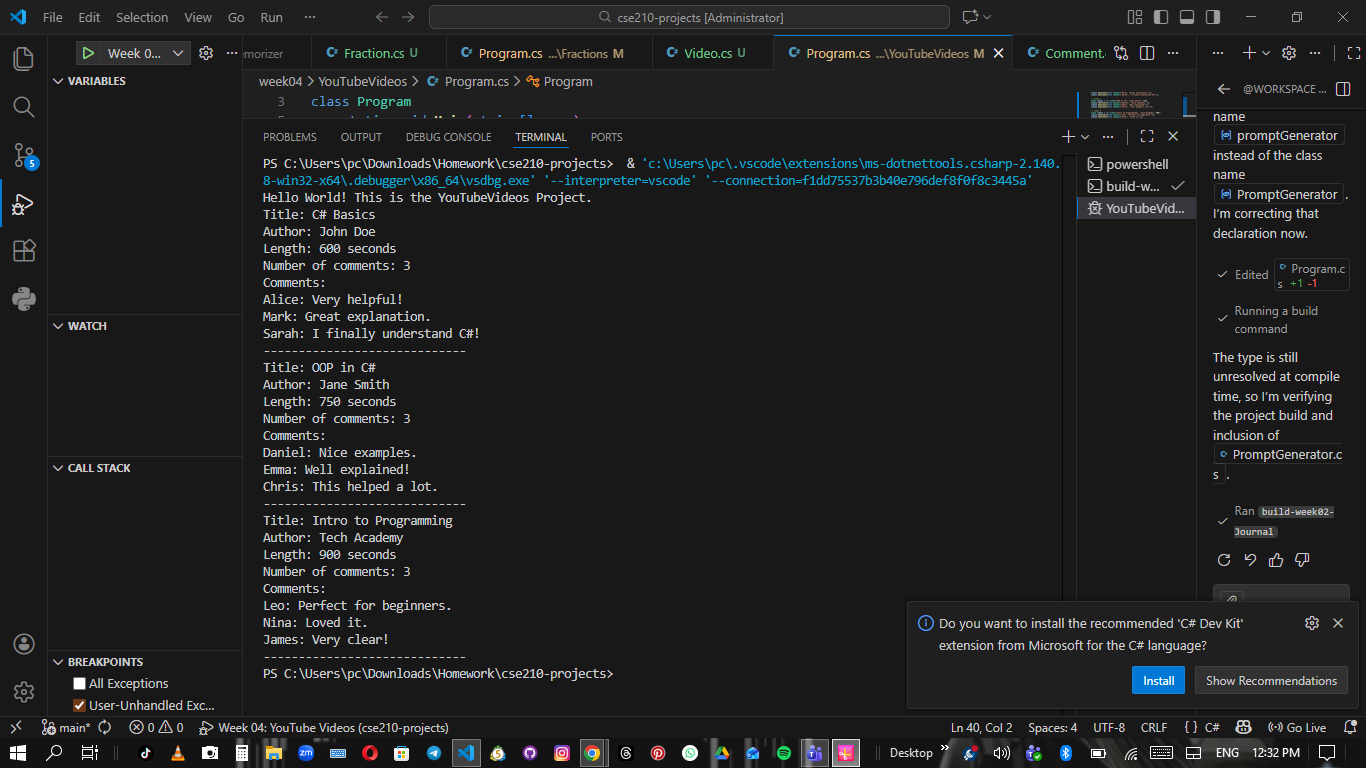
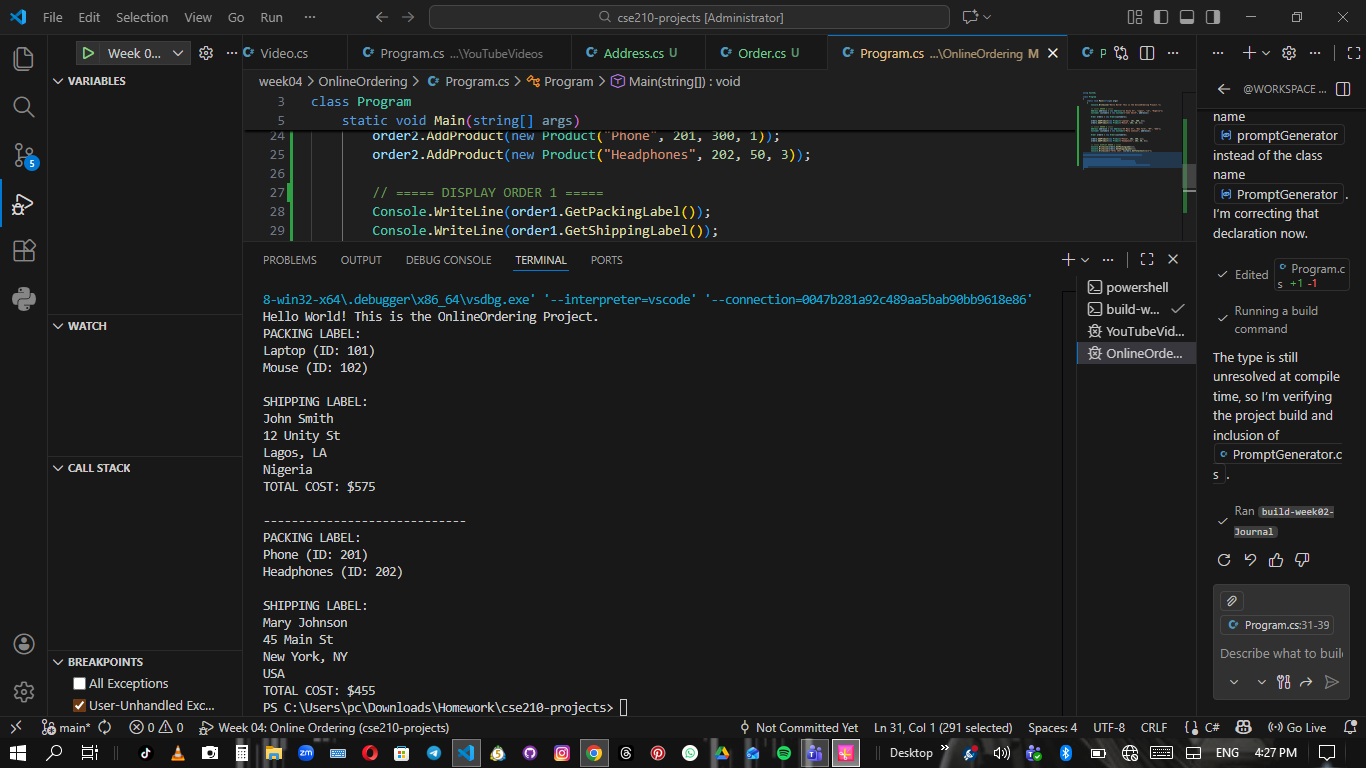
onlineshopping

diff --git a/week04/OnlineOrdering/Program.cs b/week04/OnlineOrdering/Program.cs
@@ -5,5 +5,35 @@ class Program
     static void Main(string[] args)
     {
         Console.WriteLine("Hello World! This is the OnlineOrdering Project.");
+
+        // ===== ORDER 1 =====
+        Address address1 = new Address("12 Unity St", "Lagos", "LA", "Nigeria");
+        Customer customer1 = new Customer("John Smith", address1);
+
+        Order order1 = new Order(customer1);
+
+        order1.AddProduct(new Product("Laptop", 101, 500, 1));
+        order1.AddProduct(new Product("Mouse", 102, 20, 2));
+
+        // ===== ORDER 2 =====
+        Address address2 = new Address("45 Main St", "New York", "NY", "USA");
+        Customer customer2 = new Customer("Mary Johnson", address2);
+
+        Order order2 = new Order(customer2);
+
+        order2.AddProduct(new Product("Phone", 201, 300, 1));
+        order2.AddProduct(new Product("Headphones", 202, 50, 3));
+
+        // ===== DISPLAY ORDER 1 =====
+        Console.WriteLine(order1.GetPackingLabel());
+        Console.WriteLine(order1.GetShippingLabel());
+        Console.WriteLine($"TOTAL COST: ${order1.GetTotalCost()}\n");
+
+        Console.WriteLine("-----------------------------");
+
+        // ===== DISPLAY ORDER 2 =====
+        Console.WriteLine(order2.GetPackingLabel());
+        Console.WriteLine(order2.GetShippingLabel());
+        Console.WriteLine($"TOTAL COST: ${order2.GetTotalCost()}");
     }
 }

diff --git a/week04/OnlineOrdering/Order.cs b/week04/OnlineOrdering/Order.cs
@@ -1,0 +1,57 @@
+using System;
+using System.Collections.Generic;
+
+public class Order
+{
+    private List<Product> _products;
+    private Customer _customer;
+
+    public Order(Customer customer)
+    {
+        _customer = customer;
+        _products = new List<Product>();
+    }
+
+    public void AddProduct(Product product)
+    {
+        _products.Add(product);
+    }
+
+    public double GetTotalCost()
+    {
+        double total = 0;
+
+        foreach (Product product in _products)
+        {
+            total += product.GetTotalCost();
+        }
+
+        if (_customer.LivesInUSA())
+        {
+            total += 5;
+        }
+        else
+        {
+            total += 35;
+        }
+
+        return total;
+    }
+
+    public string GetPackingLabel()
+    {
+        string label = "PACKING LABEL:\n";
+
+        foreach (Product product in _products)
+        {
+            label += product.GetPackingLabel() + "\n";
+        }
+
+        return label;
+    }
+
+    public string GetShippingLabel()
+    {
+        return $"SHIPPING LABEL:\n{_customer.GetName()}\n{_customer.GetAddress().GetFullAddress()}";
+    }
+}

diff --git a/week04/OnlineOrdering/Address.cs b/week04/OnlineOrdering/Address.cs
@@ -1,0 +1,27 @@
+using System;
+
+public class Address
+{
+    private string _street;
+    private string _city;
+    private string _state;
+    private string _country;
+
+    public Address(string street, string city, string state, string country)
+    {
+        _street = street;
+        _city = city;
+        _state = state;
+        _country = country;
+    }
+
+    public bool IsUSA()
+    {
+        return _country.ToLower() == "usa";
+    }
+
+    public string GetFullAddress()
+    {
+        return $"{_street}\n{_city}, {_state}\n{_country}";
+    }
+}

diff --git a/week04/OnlineOrdering/Product.cs b/week04/OnlineOrdering/Product.cs
@@ -1,0 +1,27 @@
+using System;
+
+public class Product
+{
+    private string _name;
+    private int _productId;
+    private double _price;
+    private int _quantity;
+
+    public Product(string name, int productId, double price, int quantity)
+    {
+        _name = name;
+        _productId = productId;
+        _price = price;
+        _quantity = quantity;
+    }
+
+    public double GetTotalCost()
+    {
+        return _price * _quantity;
+    }
+
+    public string GetPackingLabel()
+    {
+        return $"{_name} (ID: {_productId})";
+    }
+}

diff --git a/week04/OnlineOrdering/Customer.cs b/week04/OnlineOrdering/Customer.cs
@@ -1,0 +1,28 @@
+using System;
+
+public class Customer
+{
+    private string _name;
+    private Address _address;
+
+    public Customer(string name, Address address)
+    {
+        _name = name;
+        _address = address;
+    }
+
+    public bool LivesInUSA()
+    {
+        return _address.IsUSA();
+    }
+
+    public string GetName()
+    {
+        return _name;
+    }
+
+    public Address GetAddress()
+    {
+        return _address;
+    }
+}
